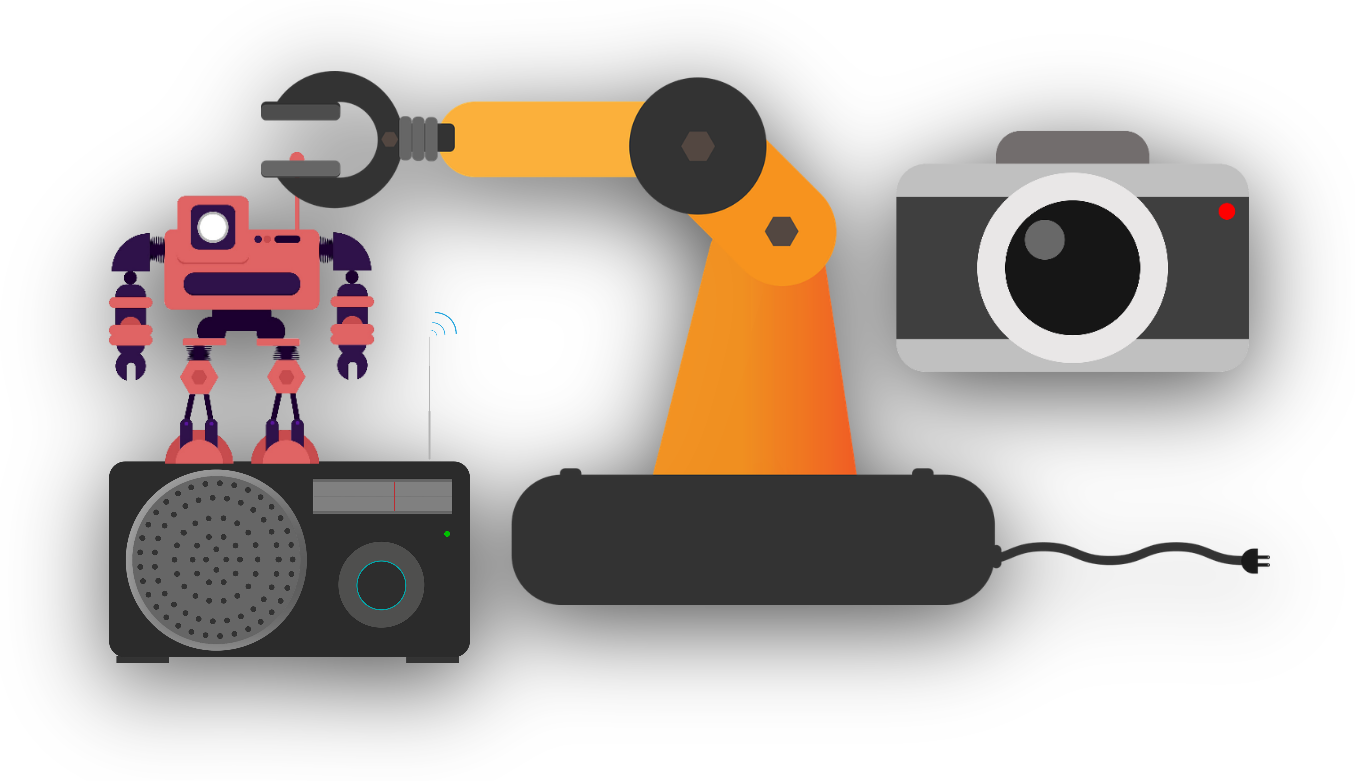
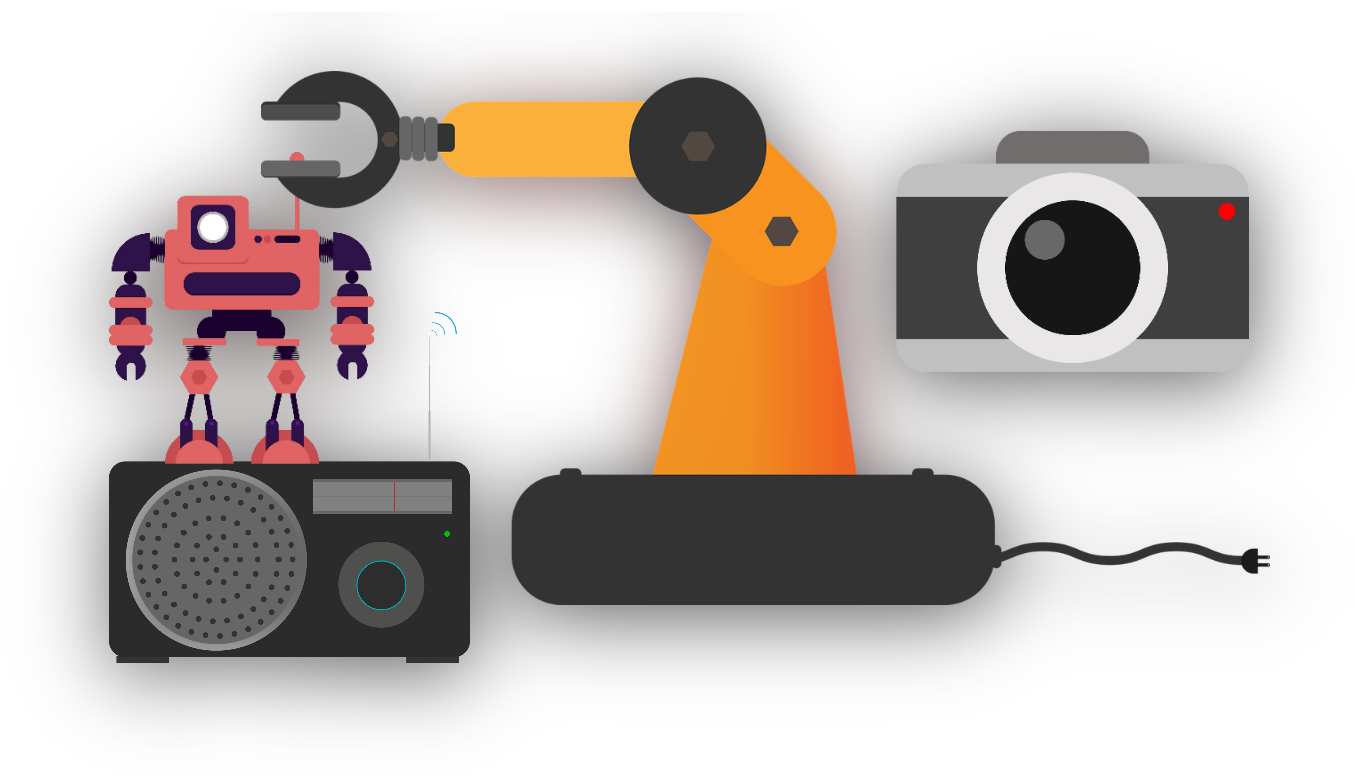
shadows
Former-commit-id: 6005f73854c0ea8557db4f86435303df8b470a68

Changed region(s): [[0.341, 0.2151, 0.5269, 0.3688], [0.7439, 0.4609, 0.8059, 0.5224], [0.5889, 0.3688, 0.6199, 0.3995]]

diff --git a/src/pages/index.js b/src/pages/index.js
@@ -442,7 +442,7 @@ class Home extends React.Component {
               <div className="col padding--lg colimage">
                 <div className="vcenter"></div>
                 <img
-                  src="/img/community/US_Connect.png"
+                  src="/img/US_Connect.png"
                   style={{ verticalAlign: "middle" }}
                 />
               </div>
